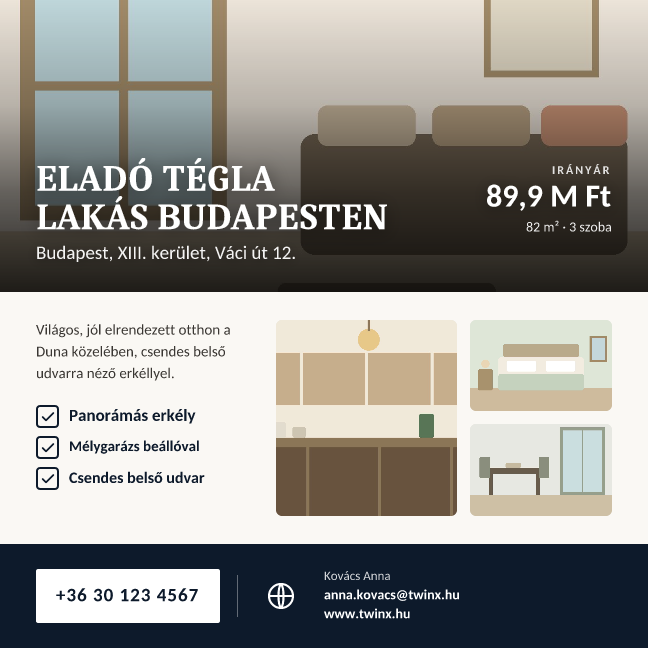
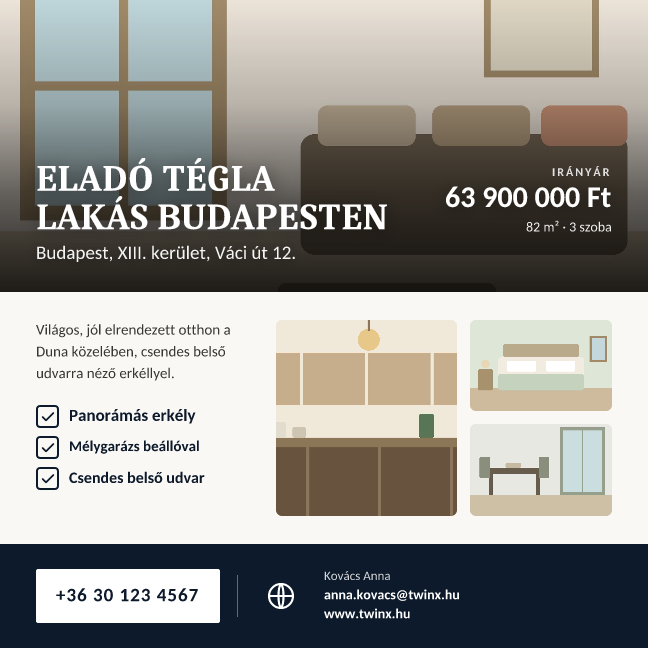
Hirdeteskep: okos ar-formazas (ezres tagolas + Ft mindenhol)

Changed region(s): [[0.679, 0.2469, 0.9568, 0.3395]]

diff --git a/src/lib/flyer-poster.ts b/src/lib/flyer-poster.ts
@@ -126,16 +126,98 @@ export function truncate(s: string, max: number): string {
 }
 
 /**
- * Ár formázása: ha a partner CSAK számot ír (pl. "100" vagy "46,5"), kitesszük a
- * hiányzó mértékegységet → "100 M Ft". Ha már írt bármilyen egységet (M, Ft, mFt…),
- * változatlanul hagyjuk.
+ * Ár értelmezése és egységes formázása.
+ *
+ * A partner sokféleképp írja be az árat, és eddig ebből két hiba jött:
+ *   • "63900000"    → a régi kód csak azt nézte, „szám-e", és rátette az „M Ft"-ot
+ *                     (63900000 M Ft — nyilvánvalóan rossz),
+ *   • "63 900 000"  → a szóközök miatt egyik mintára sem illett, ezért VÁLTOZATLAN
+ *                     maradt, vagyis a „Ft" is lemaradt a hirdetésképről.
+ * Ezért a kollégának kézzel kellett szóközölnie és Ft-et írnia.
+ *
+ * Most: kiszedjük a számot (bármilyen elválasztóval írták), eldöntjük, hogy
+ * MILLIÓ vagy teljes forintösszeg, és MINDIG kiírjuk a mértékegységet.
+ *
+ * Példák
+ *   "63900000"      → 63 900 000 Ft
+ *   "63 900 000"    → 63 900 000 Ft
+ *   "63.900.000 Ft" → 63 900 000 Ft
+ *   "63,9M"         → 63,9 M Ft
+ *   "63"            → 63 M Ft
+ *   "46,5"          → 46,5 M Ft
+ *   "megegyezés szerint" → változatlan (nincs benne szám)
  */
-export function formatPrice(raw: string): string {
+export type PriceParts = {
+  /** A szám, ezres tagolással: "63 900 000" vagy "63,9". */
+  value: string;
+  /** A mértékegység: "Ft" vagy "M Ft". */
+  unit: string;
+};
+
+/** Ezres tagolás szóközzel: "63900000" → "63 900 000". */
+function groupThousands(intPart: string): string {
+  return intPart.replace(/\B(?=(\d{3})+(?!\d))/g, " ");
+}
+
+export function parsePrice(raw: string): PriceParts | null {
   const t = String(raw ?? "").trim();
-  if (!t) return "";
-  if (/^\d+([.,]\d+)?$/.test(t)) return `${t} M Ft`;          // csak szám
-  if (/^\d+([.,]\d+)?\s*m$/i.test(t)) return `${t.replace(/\s*m$/i, "")} M Ft`; // "100 M"
-  return t;
+  if (!t) return null;
+
+  const lower = t.toLowerCase().replace(/ /g, " ");
+
+  // Írt-e a partner mértékegységet?
+  const saysFt = /(ft|huf|forint)/.test(lower);
+  const saysMillion = /milli|\bm\b|\dm\b|mft/.test(lower);
+
+  // A szám kinyerése: minden más karaktert elhagyunk.
+  const digitsAndSeps = lower.replace(/[^\d.,]/g, "");
+  if (!/\d/.test(digitsAndSeps)) return null; // pl. „megegyezés szerint" — hagyjuk békén
+
+  // Elválasztók értelmezése. Több elválasztó → mind ezres tagolás ("63.900.000").
+  // Egy elválasztó → ha UTÁNA pontosan 3 számjegy áll, az is ezres tagolás
+  // ("63.900"), különben tizedesjel ("46,5").
+  const seps = digitsAndSeps.match(/[.,]/g) ?? [];
+  let intStr: string;
+  let fracStr = "";
+
+  if (seps.length === 0) {
+    intStr = digitsAndSeps;
+  } else if (seps.length >= 2) {
+    intStr = digitsAndSeps.replace(/[.,]/g, "");
+  } else {
+    const [a, b] = digitsAndSeps.split(/[.,]/);
+    if (b.length === 3) {
+      intStr = a + b;
+    } else {
+      intStr = a;
+      fracStr = b.replace(/0+$/, ""); // "46,50" → "46,5"
+    }
+  }
+
+  intStr = intStr.replace(/^0+(?=\d)/, "") || "0";
+  const n = Number(`${intStr}.${fracStr || "0"}`);
+  if (!Number.isFinite(n)) return null;
+
+  // Millió vagy teljes összeg?
+  //   • ha a partner kiírta ("63,9 M") → millió,
+  //   • ha kiírta a Ft-ot és nagy a szám → teljes összeg,
+  //   • egyébként a nagyságrend dönt: 1000 alatt millióban gondolkodik
+  //     (63 → 63 M Ft), fölötte teljes forintösszeg (63900000).
+  const isMillion = saysMillion || (!saysFt && n < 1000);
+
+  if (isMillion) {
+    const value = fracStr ? `${groupThousands(intStr)},${fracStr}` : groupThousands(intStr);
+    return { value, unit: "M Ft" };
+  }
+  // Teljes összegnél a tizedesnek nincs értelme — kerekítünk.
+  return { value: groupThousands(String(Math.round(n))), unit: "Ft" };
+}
+
+/** A megjelenítendő ár egy sorban: "63 900 000 Ft" / "63,9 M Ft". */
+export function formatPrice(raw: string): string {
+  const p = parsePrice(raw);
+  if (!p) return String(raw ?? "").trim();
+  return `${p.value} ${p.unit}`;
 }
 
 /**
@@ -287,7 +369,7 @@ export function buildPosterHtml(o: RenderOpts): string {
   const priceEl = o.text.price
     ? `<div style="flex:0 0 auto;background:${t.priceBg};color:${t.priceInk};border-radius:${r}px;padding:${12 * u}px ${24 * u}px;text-align:right">
         <div style="${type(600, Math.round(15 * u), 1.4, `color:${t.priceInk};opacity:.8;letter-spacing:${2 * u}px;`)}">IRÁNYÁR</div>
-        <div style="${type(800, Math.round(34 * u), 1.3, `color:${t.priceInk};padding-bottom:${3 * u}px;`)}white-space:nowrap">${esc(truncate(o.text.price, 18))}</div>
+        <div style="${type(800, Math.round(34 * u), 1.3, `color:${t.priceInk};padding-bottom:${3 * u}px;`)}white-space:nowrap">${esc(truncate(formatPrice(o.text.price), 20))}</div>
       </div>`
     : "";
 

diff --git a/src/components/flyer/AdWizard.tsx b/src/components/flyer/AdWizard.tsx
@@ -873,7 +873,7 @@ export default function AdWizard({
                   <Combo label="Műszaki állapot" value={facts.condition} onChange={(v) => setF("condition", v)} options={CONDITION_OPTIONS} placeholder="Válassz a listából" />
                   <Combo label="Szerkezet" value={facts.structure} onChange={(v) => setF("structure", v)} options={STRUCTURE_OPTIONS} placeholder="Válassz a listából" />
                   <Field label="Méret" value={facts.size} onChange={(v) => setF("size", v)} placeholder="pl. 125 m²" mem={sizeMem} />
-                  <Field label="Ár" value={facts.price} onChange={(v) => setF("price", v)} placeholder="pl. 145.000.000 Ft" mem={priceMem} />
+                  <Field label="Ár" value={facts.price} onChange={(v) => setF("price", v)} placeholder="pl. 63900000 vagy 63,9" mem={priceMem} />
                 </div>
               </div>
               <div className="flex flex-wrap items-end gap-3">
@@ -892,7 +892,14 @@ export default function AdWizard({
                 <p className="text-sm font-semibold">A hirdetés szövege</p>
                 <Limit label="Főcím" value={text.title} onChange={(v) => setT("title", v)} max={FLYER_TITLE_MAX} mem={titleMem} />
                 <Limit label="Alcím" value={text.subtitle} onChange={(v) => setT("subtitle", v)} max={FLYER_SUBTITLE_MAX} mem={subtitleMem} />
-                <Limit label="Megjelenő ár" value={text.price} onChange={(v) => setT("price", v)} max={18} mem={dispPriceMem} />
+                <Limit label="Megjelenő ár" value={text.price} onChange={(v) => setT("price", v)} max={20} mem={dispPriceMem} />
+                {/* A tagolást és a „Ft"-ot a render teszi ki (lib/flyer-poster.ts →
+                    formatPrice), ezért itt elég a puszta szám. */}
+                <p className="-mt-1 text-xs" style={{ color: "var(--twx-ink-muted)" }}>
+                  Elég a számot beírni — a hirdetésképre magától kerül ki az ezres tagolás
+                  és a mértékegység. Például: <strong>63900000</strong> → 63 900 000 Ft,
+                  <strong> 63,9</strong> → 63,9 M Ft.
+                </p>
                 <div>
                   <div className="flex items-baseline justify-between">
                     <label className="block text-xs font-medium" style={{ color: "var(--twx-ink-muted)" }}>

diff --git a/src/lib/flyer-satori.tsx b/src/lib/flyer-satori.tsx
@@ -6,7 +6,7 @@
 // A többi elrendezés külön fájlban: flyer-satori-openhouse / flyer-satori-unit.
 // A közös építőelemek (box, img, ikonok, rövidítés) a flyer-satori-kit-ben laknak.
 import React from "react";
-import { buildTheme, truncate, flyerGeom, formatPrice, formatSize, type RenderOpts } from "@/lib/flyer-poster";
+import { buildTheme, truncate, flyerGeom, parsePrice, formatSize, type RenderOpts } from "@/lib/flyer-poster";
 import { box, img, hexA, onColor, numOf, compact, icon, type Style } from "@/lib/flyer-satori-kit";
 import { buildOpenHouseElement } from "@/lib/flyer-satori-openhouse";
 import { buildUnitElement } from "@/lib/flyer-satori-unit";
@@ -55,11 +55,12 @@ export function buildPremiumElement(o: RenderOpts, family: string): React.ReactE
   const topFs = Math.round((topLine.length > 42 ? 15 : topLine.length > 32 ? 17 : 20) * u * ts);
   const contact = [p.phone, p.email, p.website].filter(Boolean).map((x) => truncate(x, 32)).join("   ·   ");
 
-  // Ár: ha a partner CSAK számot adott meg, kitesszük a nagy „M Ft" utótagot.
-  const rawPrice = formatPrice(String(o.text.price ?? ""));
-  const priceIsBare = /^\d+([.,]\d+)?$/.test(rawPrice);
-  const priceNum = priceIsBare ? rawPrice : truncate(rawPrice, 16);
-  const priceSuffix = priceIsBare ? "M Ft" : "";
+  // Ár: a pecséten a SZÁM nagyban, a mértékegység kisebben áll alatta/mellette.
+  // A tagolást és az egységet a parsePrice adja (lásd flyer-poster.ts).
+  const parsed = parsePrice(String(o.text.price ?? ""));
+  const rawPrice = parsed ? `${parsed.value} ${parsed.unit}` : String(o.text.price ?? "").trim();
+  const priceNum = parsed ? parsed.value : truncate(rawPrice, 16);
+  const priceSuffix = parsed ? parsed.unit : "";
 
   // --- Geometria: KÖZÖS forrásból (flyerGeom) — méretenként más kompozíció ---
   const waveH = g.waveH;

diff --git a/src/lib/flyer-satori-openhouse.tsx b/src/lib/flyer-satori-openhouse.tsx
@@ -112,9 +112,10 @@ export function buildOpenHouseElement(o: RenderOpts, family: string): React.Reac
     : null;
 
   // Kiemelt infó-blokk (a minta dátum-blokkjának helyén): ÁR + kulcsadat.
+  // A mértékegységet (Ft / M Ft) a formatPrice teszi ki — itt már NEM toldunk hozzá,
+  // különben "63 900 000 Ft M Ft" lenne belőle.
   const rawPrice = formatPrice(String(o.text.price ?? ""));
-  const priceIsBare = /^\d+([.,]\d+)?$/.test(rawPrice);
-  const priceTxt = priceIsBare ? `${rawPrice} M Ft` : truncate(rawPrice, 18);
+  const priceTxt = truncate(rawPrice, 20);
   const keyBits = [formatSize(d.size ?? ""), numOf(d.rooms) ? `${numOf(d.rooms)} szoba` : compact(d.rooms ?? "", 14)]
     .filter(Boolean).join("  ·  ");
   const infoCol = rawPrice || keyBits

diff --git a/src/lib/flyer-satori-unit.tsx b/src/lib/flyer-satori-unit.tsx
@@ -137,9 +137,9 @@ export function buildUnitElement(o: RenderOpts, family: string): React.ReactElem
     ].filter(Boolean)
   );
 
+  // A mértékegységet (Ft / M Ft) a formatPrice teszi ki — itt már NEM toldunk hozzá.
   const rawPrice = formatPrice(String(o.text.price ?? ""));
-  const priceIsBare = /^\d+([.,]\d+)?$/.test(rawPrice);
-  const priceTxt = priceIsBare ? `${rawPrice} M Ft` : truncate(rawPrice, 18);
+  const priceTxt = truncate(rawPrice, 20);
 
   const hair = (key: string) =>
     box({ key, width: "100%", height: Math.max(1, Math.round(1.5 * u)), background: t.bandInk, opacity: hairOp, marginTop: Math.round(12 * u), marginBottom: Math.round(12 * u) } as Style, "");
